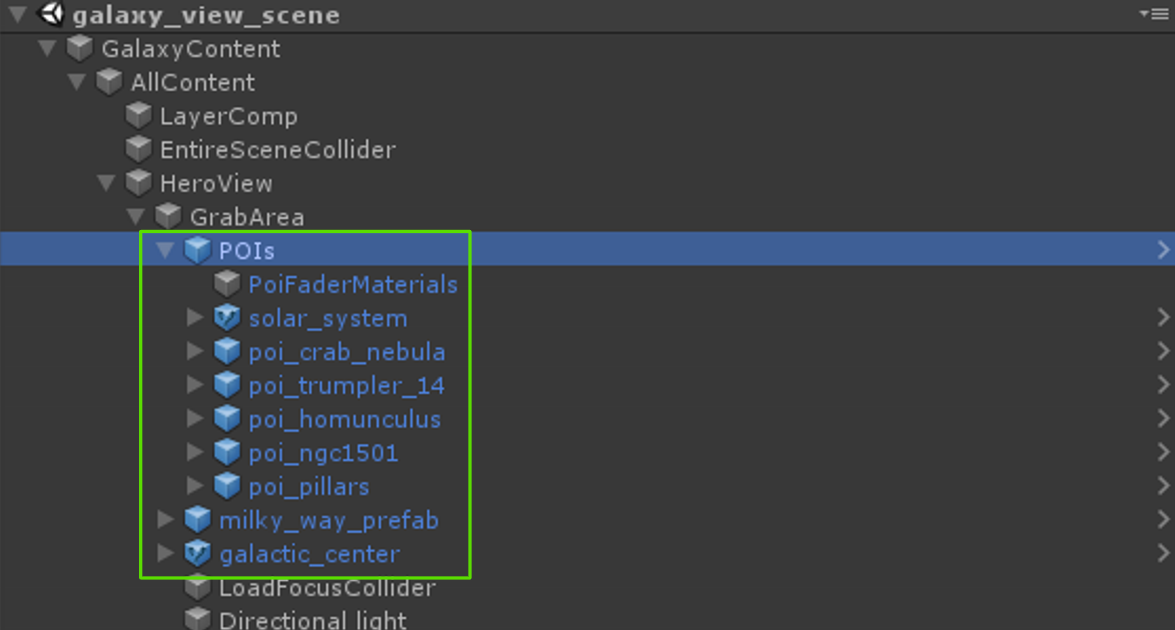
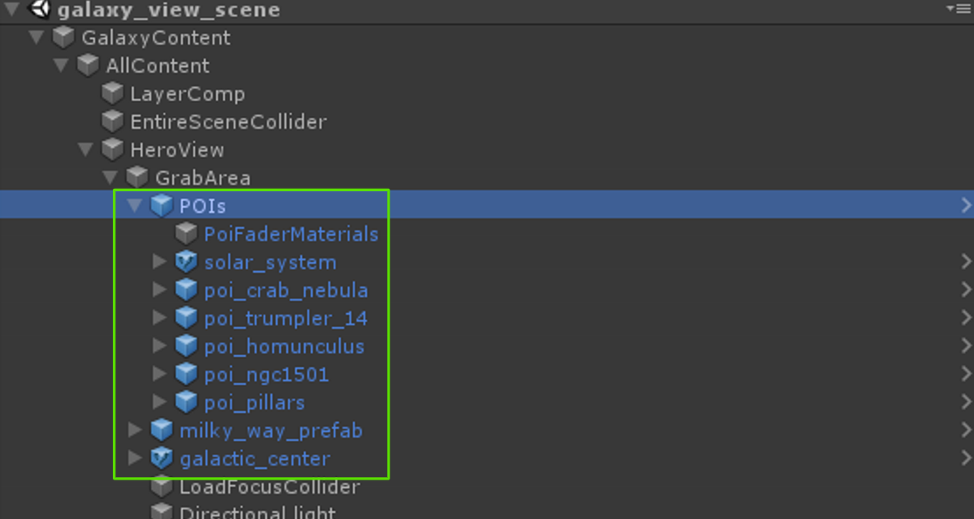
[15492] Cleaned up poi .md screenshots and text

diff --git a/Apps/GalaxyExplorerV2_Unity/Documentation/PointsOfInterest.md b/Apps/GalaxyExplorerV2_Unity/Documentation/PointsOfInterest.md
@@ -6,7 +6,7 @@ Points of interest (POI) enable the user to navigate to deeper levels of informa
 
 ## Types of POIs
 
-There are 2 types of POI prefabs. Both share the same content and hierarchy, but are en-/disabled based on the required functionality in the scene.
+There are 2 types of POI prefabs. Both types share the same content and hierarchy, but differ in what specific components are en-/disabled according to their required functionality in the scene.
 
 - *poi_prefab*: The base prefab, used for a poi that opens up a content window inside the galaxy view on selection.
 
@@ -18,7 +18,7 @@ Every POI consists of 3 subparts:
 
 ![POI prefab subparts](Images/ge_poi_subparts.png)
 
-- `POIContent`, containing the content for the POI pop-up windows (only relevant for the prefab_poi, nt the large variant).
+- `POIContent`, containing the content for the POI pop-up windows (only relevant for the prefab_poi, not for the large variant).
 
 - `TextArea`, containing the poi text and the interactive functionality (see PressableButton), as well as the poi intermittent highlight. The Pressable Button prefab (MRTK v2) already handles cross-platform input (like WMR controllers, articulated hands, HoloLens Gen 1 gaze-gesture-voice interactions).
 
@@ -33,6 +33,7 @@ Every POI consists of 3 subparts:
 - Card POI: Script to add the content for the poi_prefab pop-up window
 
 - Planet POI: Script to add the scene to which to transition to.
+
 - PointOfInterest
 
 ## How to add new POIs to the galaxy view
@@ -68,7 +69,7 @@ Add a voice over audio clip for your point of interest on CardPOI script's CardA
 
 ### Adding link POIs
 
-On the child called Text, change the text in the TextMeshPro component that will appear on the POI in the galaxy view. Additionally the values on SubText and Icon need to be changed for the large point of interest
+On the child called Text, change the text in the TextMeshPro component that will appear on the POI in the galaxy view. Additionally the values on SubText and Icon need to be changed for the large point of interest.
 	
 ![](Images/ge_poi_adding_prefab_large_1.png)	
 
